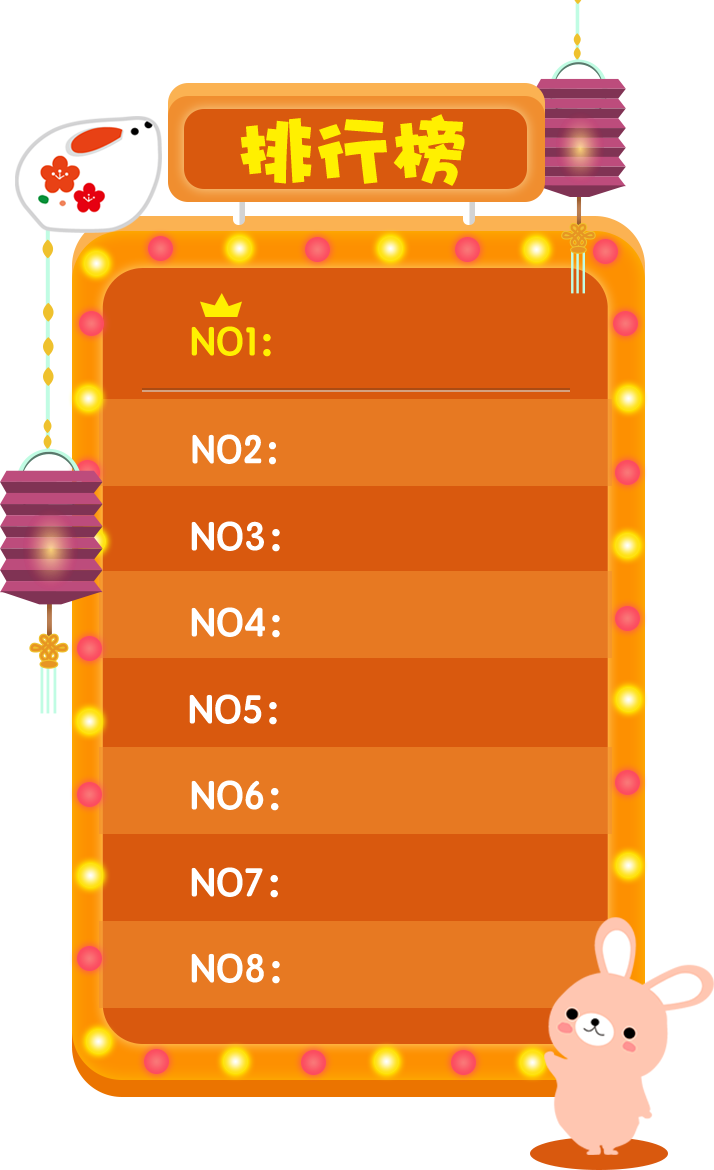
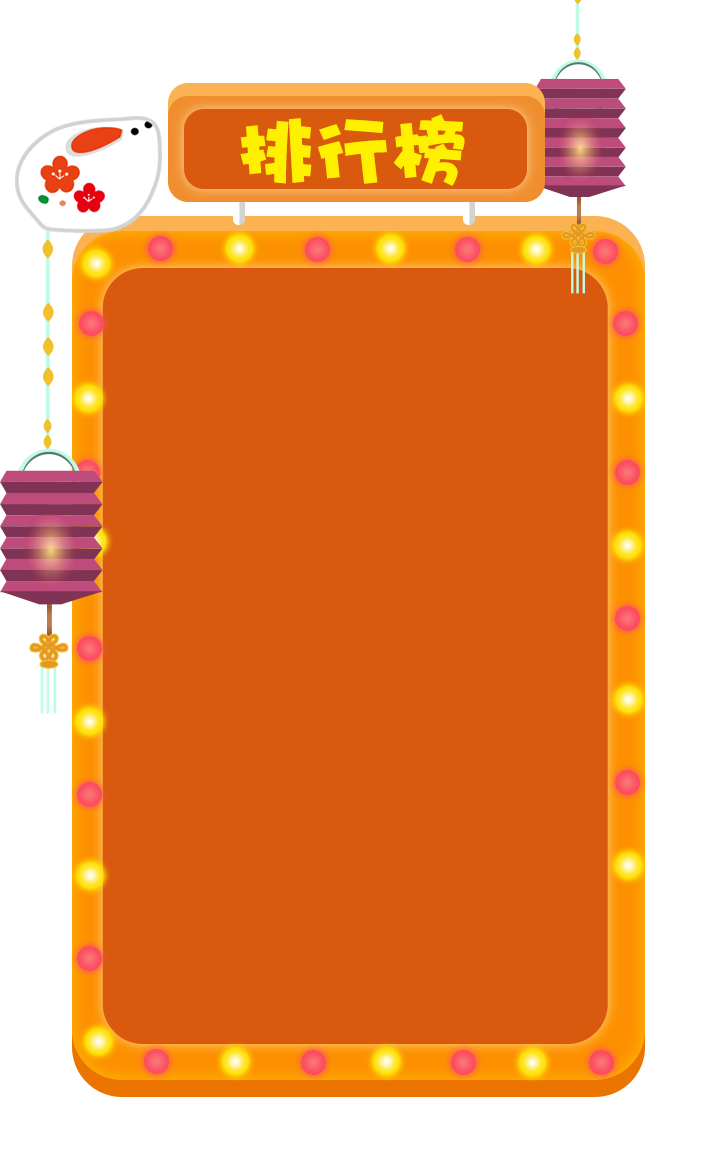
奖品图片

diff --git a/src/css/main.less b/src/css/main.less
@@ -6,6 +6,10 @@
 @inputColor: #e7aa6f;
 
 @closeImg:"../img/close.png";
+@btn1Img:"../img/btn1.png";
+@btn2Img:"../img/btn2.png";
+@btn3Img:"../img/btn3.png";
+@btn4Img:"../img/btn4.png";
 /*
  * What follows is the result of much research on cross-browser styling.
  * Credit left inline and big thanks to Nicolas Gallagher, Jonathan Neal,
@@ -393,17 +397,30 @@ section{
         opacity: 0;
     }
 }
+.gotPrizeTip.got{
+    .btn1,.btn2{display:none}
+    .btn4{display:block;}
+}
 .btn1{
     width:31.40028%;
     left:5.23338%;
+    .bgFun(@btn1Img);
 }
 .btn2{
     width:25.884%;
     left:38.331%;
+    .bgFun(@btn2Img)
 }
 .btn3{
     width:28.00565%;
     right:6.50636%;
+    .bgFun(@btn3Img)
+}
+.btn4{
+    width:25.884%;
+    left:5.23338%;
+    .bgFun(@btn4Img);
+    display:none;
 }
 .prizeImg{
     width:41.4427157%;
@@ -419,6 +436,7 @@ section{
 /*sharepage*/
 .sharePage{
     .bgFun("../img/bg2.png");
+    background-size:100% 100%;
     top:0;
     left:0;
     .tip{
@@ -504,53 +522,67 @@ section{
         margin-top:30.06993%;
     }
 }
-.listContent{
-    width:39.44%;
+.friendContent{
+    width:70.62937%;
+    height:0;
+    padding-top:100.27972%;
     position:absolute;
     top:0;
-    margin-top:42.23776%;
-    left:42.8762%;//43.7762%;
-    div{
-        vertical-align: middle;
-        text-align: left;
-        overflow:visible;
+    margin-top:42.0979%;
+    left:14.402238%;//17.762238%;
+}
+.tuzi{
+    width:26.2937%;
+    position:absolute;
+    bottom:0;
+    right:0;
+}
+.listContent{
+    width:100%;
+    height:100%;
+    position:absolute;
+    top:0;
+    left:0;
+    overflow-y: scroll;
+    li {
+        font-size:1.0714rem;
+        color:#fff;
+        font-weight:600;
+        text-align:left;
+        .lineHeight(3.1357rem);//(2.5357rem);
+        background: transparent;
+        &:nth-child(odd) {
+            background-color: rgba(255, 255, 255, .3)
+        }
     }
     span{
-        width:25.1773%;
+        width:2.535714rem;
         display:inline-block;
-        height:0;
+        height:2.535714rem;
         position:absolute;
-        padding-top:25.1773%;
         border-radius: 100%;
+        margin-top:.3rem;
     }
-    p{margin: 0 0 0 25.1773%;white-space: nowrap;position:absolute;top:50%;transform:translateY(-50%);font-weight: 600;font-size:1.0714rem;}
     img{width:100%;position:absolute;top:0;}
 }
-.list1st,.listItem{
+.itemIndex{
+    margin:0 .6rem 0 2.142857rem;//0 1rem 0 3.142857rem;
+    font-size:1.2rem;
+    display:inline;
+}
+.nickName{
+    margin-left:3rem;
+    display:inline;
+}
+/*分享图片*/
+.shareTip{
     width:100%;
-    position:relative;
-    height:0;
-    div{
-        position:absolute;
-        top:0;
-        left:0;
-        width:100%;
-        height:100%;
-    }
+    height:100%;
+    position:absolute;
+    top:0;
+    left:0;
+    .bgFun("../img/share.png");
 }
-.list1st{
-    color: #fff000;
-    padding-top:25.1773%;
-    margin-bottom:9.9291%;
-}
-.listItem{
-    color:#fff;
-    padding-top:30.851063829%;
-    span{
-        margin-top:3.5461%;
-    }
-}
-
 @keyframes leftcraw {
     to { transform: translateX(-100%); }
 }

diff --git a/src/index.html b/src/index.html
@@ -14,6 +14,9 @@
         <link rel="stylesheet" href="css/main.css">
         <!--<script src="js/vendor/modernizr-2.8.3.min.js"></script>-->
     </head>
+    <script>
+        window.basePath="<%true%》";//cdnPath
+    </script>
     <body>
         <!--[if lt IE 8]>
             <!--<p class="browserupgrade">You are using an <strong>outdated</strong> browser. Please <a href="http://browsehappy.com/">upgrade your browser</a> to improve your experience.</p>-->
@@ -80,22 +83,21 @@
             </div>
             <div class="friendListTip tip" id="frendList">
                 <div class="close" id="closeList"></div>
-                <div class="listContent">
-                    <div class="list1st" ><div><span><img src="./img/icon.png" /></span><p>第一名驻地兔兔</p></div></div>
-                    <div class="listItem"><div><span><img src="./img/icon.png" /></span><p>第二名驻地兔兔</p></div></div>
-                    <div class="listItem"><div><span><img src="./img/icon.png" /></span><p>第二名驻地兔兔</p></div></div>
-                    <div class="listItem"><div><span><img src="./img/icon.png" /></span><p>第二名驻地兔兔</p></div></div>
-                    <div class="listItem"><div><span><img src="./img/icon.png" /></span><p>第二名驻地兔兔</p></div></div>
-                    <div class="listItem"><div><span><img src="./img/icon.png" /></span><p>第二名驻地兔兔</p></div></div>
-                    <div class="listItem"><div><span><img src="./img/icon.png" /></span><p>第二名驻地兔兔</p></div></div>
-                    <div class="listItem"><div><span><img src="./img/icon.png" /></span><p>第二名驻地兔兔</p></div></div>
+                <div class="friendContent">
+                    <ul class="listContent">
+                        <li ><div class="itemIndex">NO1:</div><span><img src="./img/icon.png" /></span><div class="nickName">驻地  兔</div></li>
+                        <li ><div class="itemIndex">NO1:</div><span><img src="./img/icon.png" /></span><div class="nickName">驻地兔兔</div></li>
+                        <li ><div class="itemIndex">NO1:</div><span><img src="./img/icon.png" /></span><div class="nickName">驻地兔兔</div></li>
+                        <li ><div class="itemIndex">NO1:</div><span><img src="./img/icon.png" /></span><div class="nickName">驻地兔兔</div></li>
+                        <li ><div class="itemIndex">NO1:</div><span><img src="./img/icon.png" /></span><div class="nickName">驻地兔兔</div></li>
+                        <li ><div class="itemIndex">NO1:</div><span><img src="./img/icon.png" /></span><div class="nickName">驻地兔兔</div></li>
+                        <li ><div class="itemIndex">NO1:</div><span><img src="./img/icon.png" /></span><div class="nickName">驻地兔兔</div></li>
+                    </ul>
                 </div>
-            </div
+                <img class="tuzi" src="img/tuzi.png" />
+            </div>
         </section>
-
-
-
-
+        <section class="shareTip hidden" id="shareTip"></section>
 
 
 

diff --git a/src/css/base.less b/src/css/base.less
@@ -8,3 +8,19 @@
     height:@h;
     line-height:@h;
 }
+form, ul, ol, li, a, input, p, em, label, select, textarea, h1, h2, h3, h4, img,button {
+    margin: 0;
+    padding: 0;
+    list-style: none;
+    border: none;
+    outline: none;
+    font-weight:500;
+}
+select{opacity:0;}
+body, div, ul, form, ol, ul, li, a, input, p, span, i, h1, h2, h3, select, option, table,td,button{
+    tap-highlight-color: rgba(0, 0, 0, 0);
+    -webkit-tap-highlight-color: rgba(0, 0, 0, 0);
+    -moz-tap-highlight-color: rgba(0, 0, 0, 0);
+    -webkit-text-size-adjust:none;
+    -webkit-appearance: none;
+}
